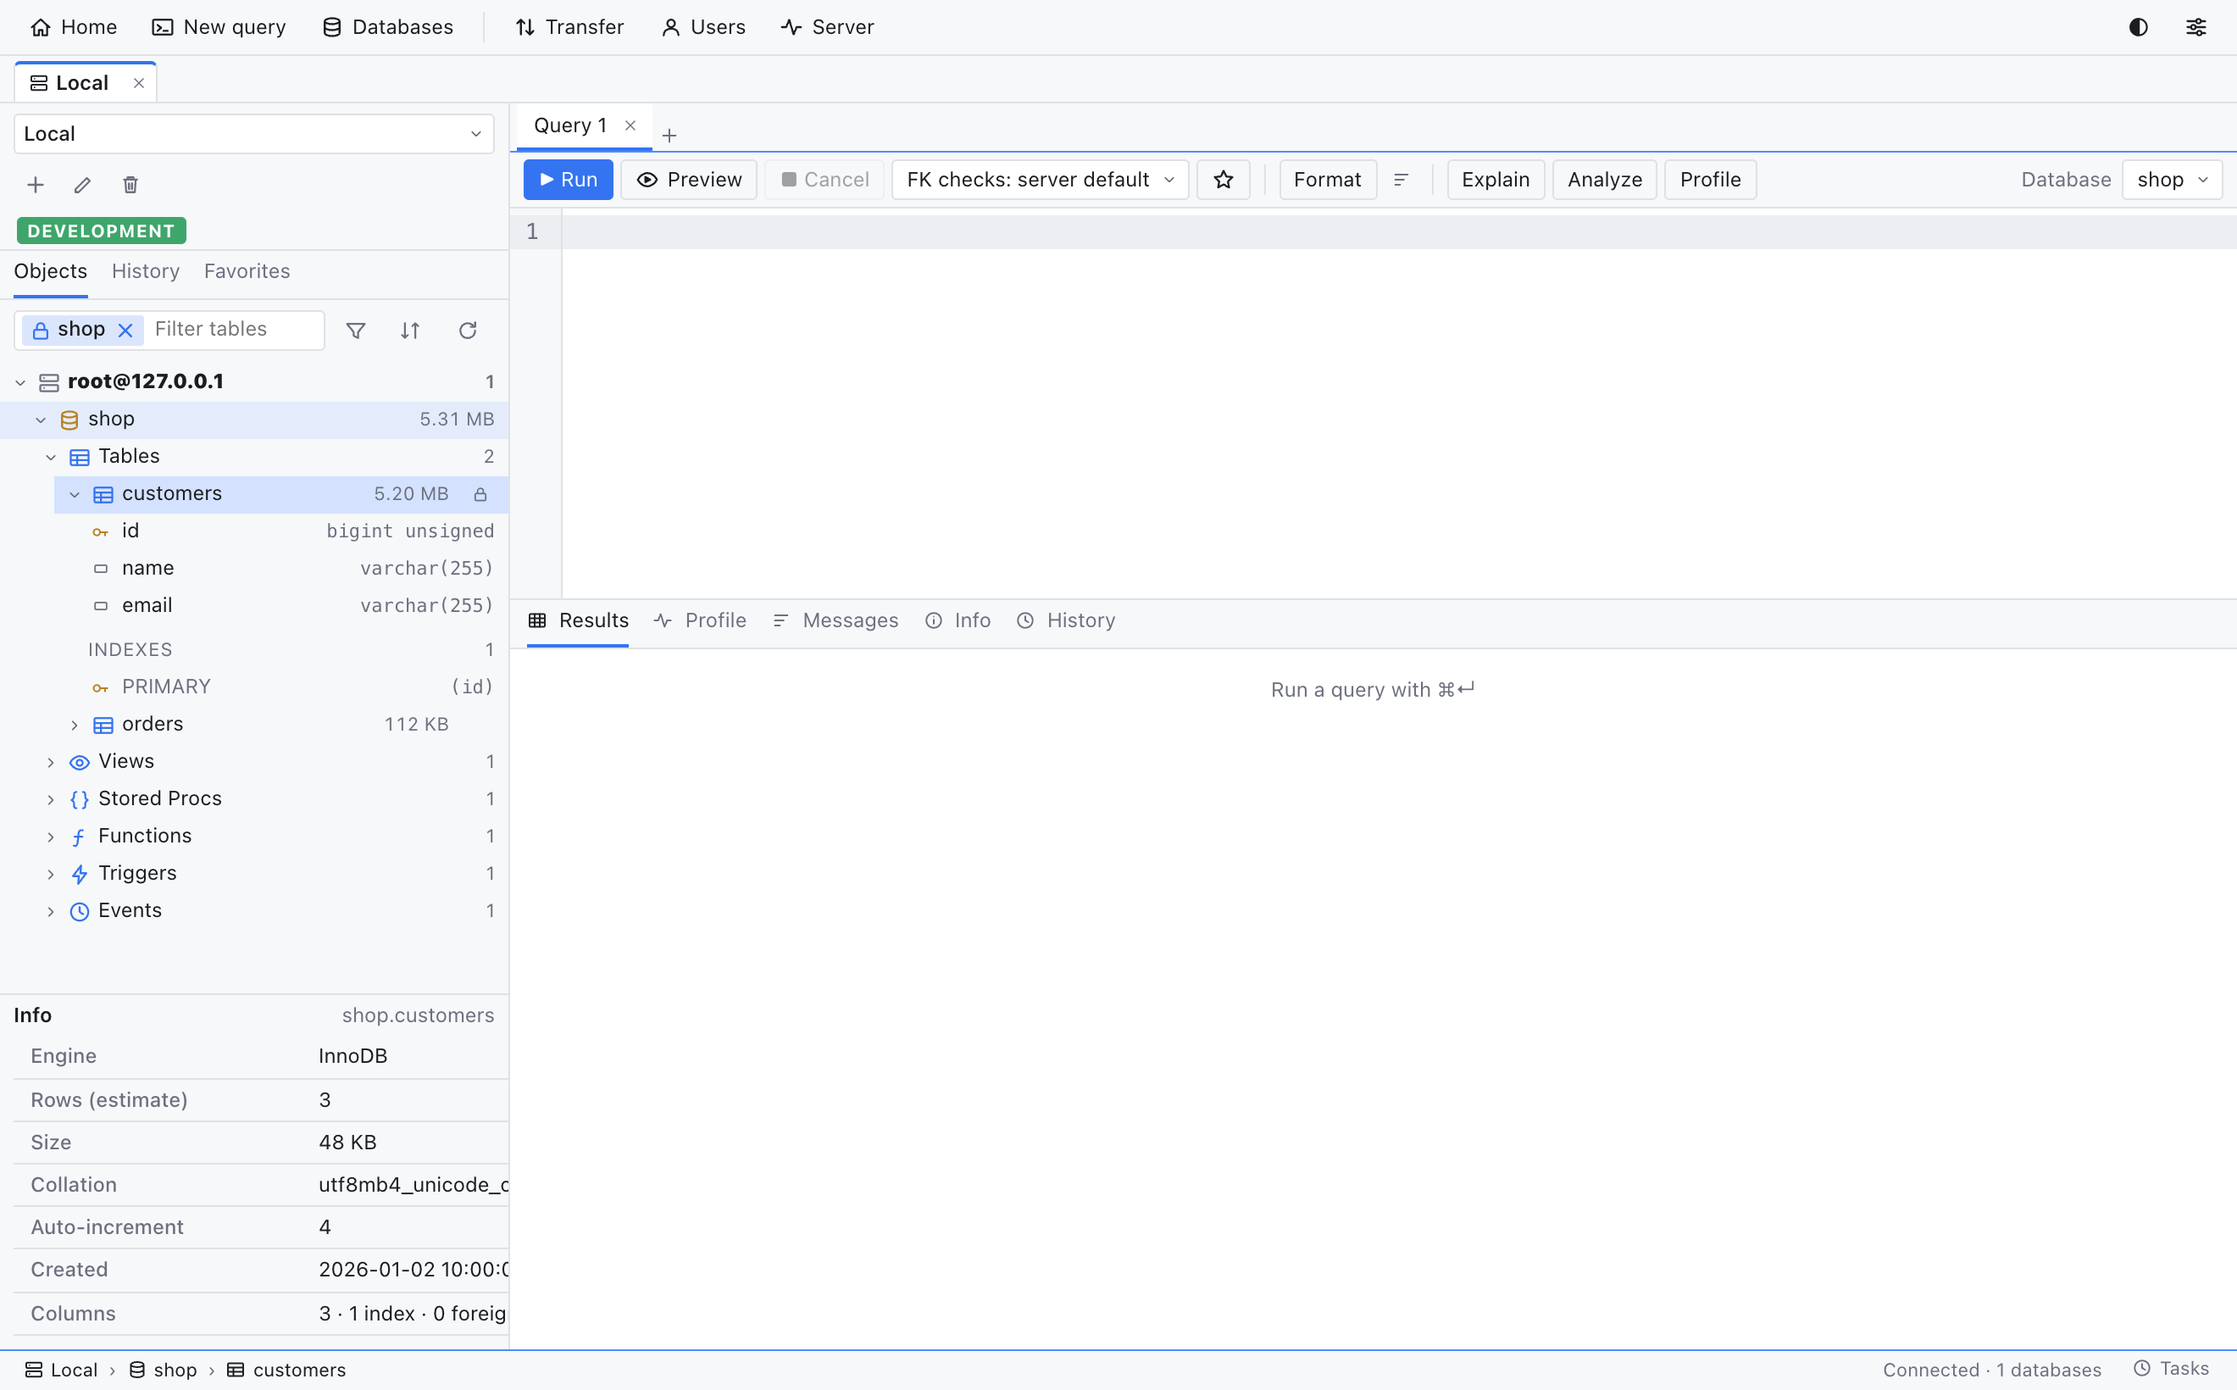
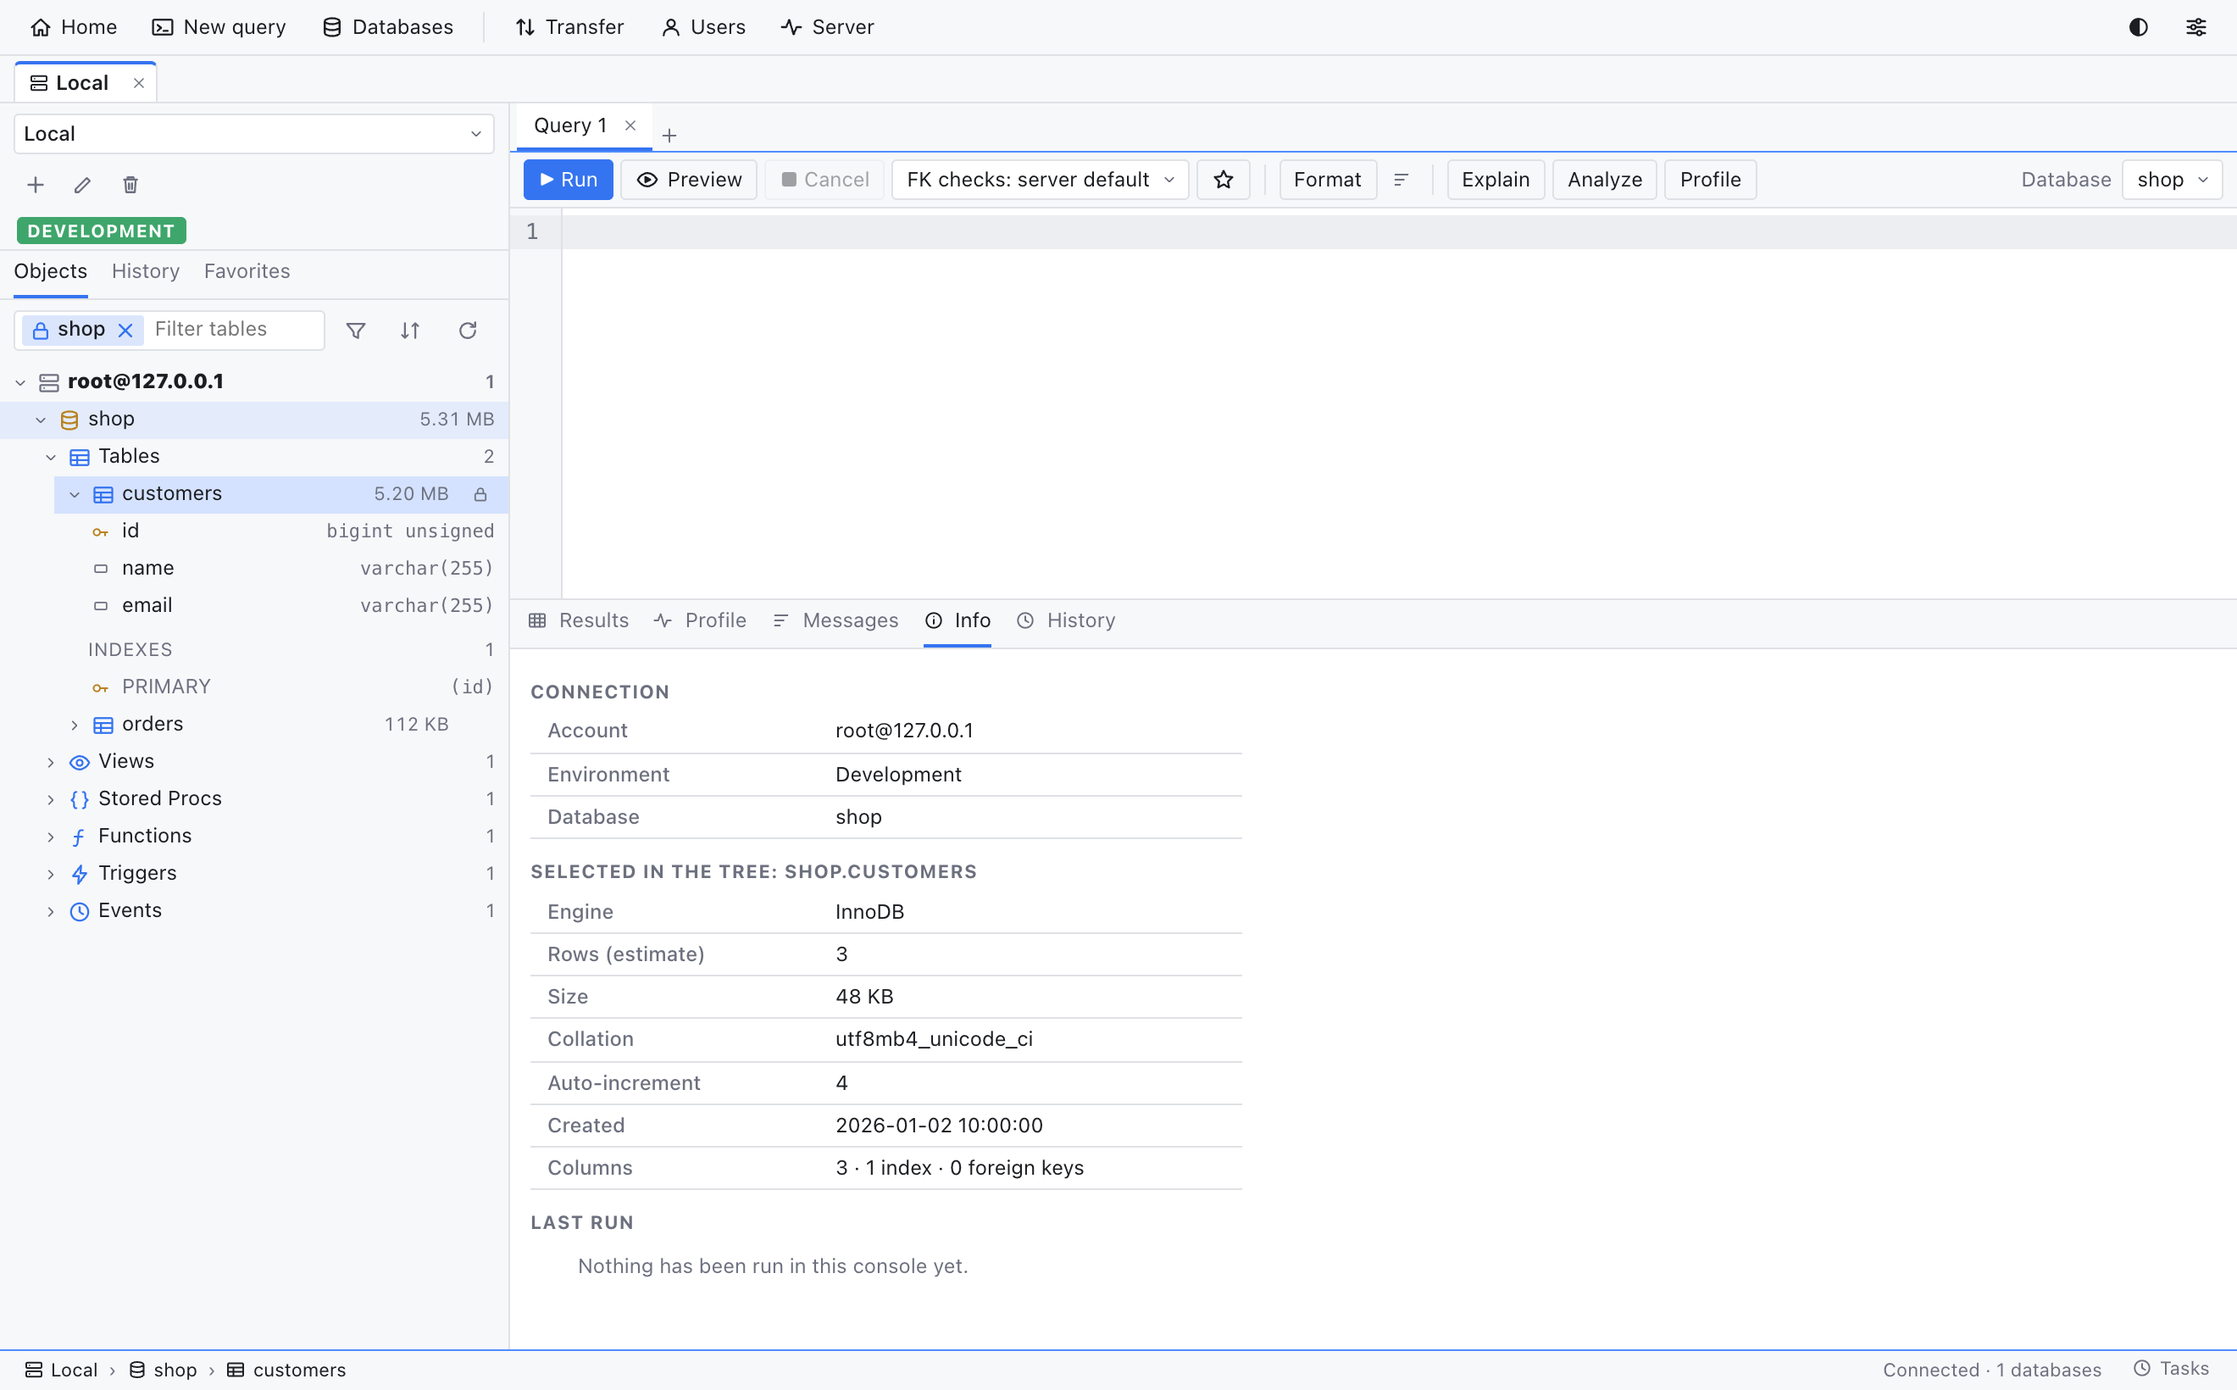
feat(browser): show selected-object facts in the Info tab instead of a sidebar panel

diff --git a/apps/desktop/src/App.tsx b/apps/desktop/src/App.tsx
@@ -6,7 +6,6 @@ import AnalysisPane, { type Analysis } from "./AnalysisPane";
 import ConnectionDialog from "./ConnectionDialog";
 import ContextMenu, { type MenuItem } from "./ContextMenu";
 import DataGrid, { defaultView, type GridView } from "./DataGrid";
-import ObjectInfo from "./ObjectInfo";
 import AboutDialog from "./AboutDialog";
 import Manual from "./Manual";
 import Tour, { tourSeen } from "./Tour";
@@ -991,7 +990,6 @@ export default function App() {
                 : <ObjectTree key={activeId} sortBy={treeSort} index={index} matches={matches} scope={matchScope} terms={terms} selectedDb={selectedDb} onSelectDb={selectDb} selectedTable={selectedTable} onSelectTable={selectTable} lockedTable={lockedTable} onLockTable={lockTable} onUnlockTable={unlock} onPick={pickName} rootLabel={active ? `${active.user}@${active.host}` : ""} onResetRoot={resetBrowser} columnQuery={lockedTable ? query : ""} stats={meta.stats} ensureStats={meta.ensureStats} details={meta.details} ensureDetails={meta.ensureDetails}
                     columnsLoaded={columnsLoaded} ensureColumns={ensureColumns} onOpenTable={(d, t) => openTable(d, t)} onObjectMenu={objectMenu} onOpenObject={showDefinition} indexes={meta.indexes} initialOpen={browserState.open} onOpenChange={(keys) => saveBrowser({ open: keys })} onDatabaseMenu={databaseMenu} />}
             </div>
-            {activeId !== null && <ObjectInfo connectionId={activeId} db={selectedDb} table={selectedTable} index={index} stats={meta.stats} />}
           </>
         )}
         {side === "history" && activeId !== null && (
@@ -1094,7 +1092,7 @@ export default function App() {
                   run={runs[editorTab.id]}
                   analysis={analyses[editorTab.id]}
                   onProfile={() => analyse("profile")}
-                  info={{ connectionId: activeId, who: active ? `${active.user}@${active.host}` : "", environment: env, readOnly, database: editorTab.database,
+                  info={{ connectionId: activeId, who: active ? `${active.user}@${active.host}` : "", environment: env, readOnly, database: editorTab.database, selection: { db: selectedDb, table: selectedTable, index, stats: meta.stats },
                           ...(isTable(editorTab) && editorTab.table?.name ? { table: { db: editorTab.table.db, name: editorTab.table.name }, onOpenProperties: () => patchTab(editorTab.id, { view: "properties" }) } : {}) }}
                   history={<HistoryPanel connectionId={activeId} refreshKey={panelKey} onInsert={insertIntoEditor} onOpen={(sql) => addTab(sql, editorTab.database)} />}
                   data={isTable(editorTab) && editorTab.id === tab.id && (tab.view ?? "data") === "data" && editorTab.table?.name ? (

diff --git a/apps/desktop/src/ObjectInfo.tsx b/apps/desktop/src/ObjectInfo.tsx
@@ -1,23 +1,15 @@
-import { useState } from "react";
 import { formatBytes } from "./browserMeta";
 import type { Node, TableStat } from "./api";
 import { useTableOverview } from "./tableOverview";
 
 const KINDS: [Node["kind"], string][] = [["table", "Tables"], ["view", "Views"], ["procedure", "Procedures"], ["function", "Functions"], ["trigger", "Triggers"], ["event", "Events"]];
 
-/** The Info panel under the object tree: facts about the selected table, or about the selected database. */
+/** Facts about what is selected in the object tree: shown in the Info tab of the results pane (not in the sidebar, which is for the tree). */
 export default function ObjectInfo(props: { connectionId: number; db: string | null; table: string | null; index: Node[]; stats: Record<string, Record<string, TableStat>> }) {
-  const [open, setOpen] = useState(() => localStorage.getItem("mylodb.infoPanel") !== "closed");
-  const toggle = () => setOpen((o) => { localStorage.setItem("mylodb.infoPanel", o ? "closed" : "open"); return !o; });
-  const title = props.table ? `${props.db}.${props.table}` : props.db ?? "Nothing selected";
-  return (
-    <div className="object-info" aria-label="Info">
-      <button className="object-info-head" aria-expanded={open} onClick={toggle}><span>Info</span><span className="dim small clip">{title}</span></button>
-      {open && (props.db === null ? <div className="empty small">Select a database or table.</div>
-        : props.table ? <TableFacts connectionId={props.connectionId} db={props.db} table={props.table} />
-        : <DatabaseFacts db={props.db} index={props.index} stats={props.stats[props.db]} />)}
-    </div>
-  );
+  if (props.db === null) return <div className="empty small">Select a database or table in the tree.</div>;
+  return props.table
+    ? <TableFacts connectionId={props.connectionId} db={props.db} table={props.table} />
+    : <DatabaseFacts db={props.db} index={props.index} stats={props.stats[props.db]} />;
 }
 
 function DatabaseFacts({ db, index, stats }: { db: string; index: Node[]; stats?: Record<string, TableStat> }) {

diff --git a/apps/desktop/src/InfoPane.tsx b/apps/desktop/src/InfoPane.tsx
@@ -1,5 +1,6 @@
 import { formatBytes } from "./browserMeta";
-import type { StatementResult } from "./api";
+import ObjectInfo from "./ObjectInfo";
+import type { Node, StatementResult, TableStat } from "./api";
 import type { RunState } from "./ResultsPane";
 import { useTableOverview } from "./tableOverview";
 
@@ -13,6 +14,8 @@ export interface InfoContext {
   /** For a table tab: the table, so its summary can be shown. */
   table?: { db: string; name: string };
   onOpenProperties?(): void;
+  /** What is selected in the object tree. */
+  selection?: { db: string | null; table: string | null; index: Node[]; stats: Record<string, Record<string, TableStat>> };
 }
 
 const oneLine = (sql: string) => sql.replace(/\s+/g, " ").trim();
@@ -29,6 +32,12 @@ export default function InfoPane({ run, ctx }: { run: RunState | undefined; ctx:
           <tr><th>Database</th><td>{ctx.database ?? <span className="dim">(none selected)</span>}</td></tr>
         </tbody>
       </table>
+      {ctx.selection && (
+        <>
+          <h4>Selected in the tree{ctx.selection.db ? `: ${ctx.selection.table ? `${ctx.selection.db}.${ctx.selection.table}` : ctx.selection.db}` : ""}</h4>
+          <ObjectInfo connectionId={ctx.connectionId} {...ctx.selection} />
+        </>
+      )}
       {ctx.table && <TableSummary connectionId={ctx.connectionId} db={ctx.table.db} table={ctx.table.name} onOpenProperties={ctx.onOpenProperties} />}
       <h4>Last run</h4>
       {!run || (!run.results && !run.error) ? <div className="empty small">Nothing has been run in this console yet.</div> : (

diff --git a/apps/desktop/src/styles.css b/apps/desktop/src/styles.css
@@ -501,13 +501,6 @@ table.kv th { text-align: left; font-weight: 500; color: var(--dim); width: 170p
 .tasks-head { display: flex; align-items: center; gap: 6px; margin-bottom: 4px; } .tasks-pop ul { list-style: none; margin: 0; padding: 0; } .task { padding: 5px 0; border-top: 1px solid var(--line); } .task-line { display: flex; align-items: center; gap: 6px; } .task-label { overflow: hidden; text-overflow: ellipsis; white-space: nowrap; max-width: 220px; }
 .task.failed .task-label { color: var(--bad-text); }
 
-/* Info panel under the object tree */
-.object-info { flex: none; max-height: 40%; overflow: auto; border-top: 1px solid var(--line); background: var(--panel); }
-.object-info-head { display: flex; width: 100%; gap: 8px; justify-content: space-between; align-items: center; background: transparent; border: 0; border-radius: 0; padding: 4px 8px; text-align: left; font-weight: 600; }
-.object-info-head .clip { overflow: hidden; text-overflow: ellipsis; white-space: nowrap; font-weight: 400; }
-.object-info .info.kv { margin: 0 8px 8px; width: calc(100% - 16px); }
-.object-info .empty, .object-info .error { padding: 2px 8px 8px; }
-
 /* About, manual and the first-run tour */
 .dialog.about { width: 460px; }
 .about-head { display: flex; gap: 14px; align-items: center; margin-bottom: 8px; }

diff --git a/apps/desktop/src/Manual.tsx b/apps/desktop/src/Manual.tsx
@@ -24,7 +24,7 @@ const SECTIONS: Section[] = [
         <li><b>Filter box</b> (<K>⇧⌘B</K>): type part of a name. Use <code>/regex/</code>, <code>type:view</code>, <code>db:shop</code> or <code>col:email</code>.</li>
         <li><b>Double-click</b> a table to open it. Right-click for the menu: data, properties, SELECT/INSERT/UPDATE/DELETE samples, rename, duplicate, drop.</li>
         <li><b>Drag</b> a database, table or column name into the editor to insert it, quoted.</li>
-        <li>The <b>Info</b> panel under the tree shows facts about what is selected.</li>
+        <li>The <b>Info</b> tab under the editor shows facts about what is selected in the tree.</li>
         <li><K>F5</K> refreshes the tree.</li>
       </ul>
     </>) },

diff --git a/docs/ROADMAP.md b/docs/ROADMAP.md
@@ -28,7 +28,7 @@ Priority words used below:
 | 12b | **Shell redesign (DBeaver style)**: top toolbar (Home, New query, Databases, Transfer, Users, Server, theme, preferences), breadcrumb footer (connection › database › table, clickable), **Preview** button beside Run, distinct icons; DBeaver-style native menus (File with Open / Save SQL file, Import, Export; Edit with Format; Search; SQL Editor; Database with Disconnect); Preferences as a filterable page tree | ✅ |
 | 12 (all) | **Phase 12 complete**: editor colour schemes (Default, Multi-colour, Solarized, High contrast, previewed live) and a **command palette** (⌘K: every action and table). Plus the **native menu bar** (MyLoDB, File, Edit, View, Database, Tools, Window, Help) and **Preferences** (⌘,): theme, font family / size / bold per area (interface, sidebar, data grid, editor), editor line height, live preview, saved and clamped | ✅ |
 | 11 (all) | **Phase 11 complete**: Operations (rename by copy, copy, collation), Data dictionary (print), Engines / Charsets / Replication page (`SHOW REPLICA STATUS` with `SLAVE` fallback) | ✅ |
-| 13 (all but leftovers) | **Workspace parity complete**: several connections open at once, text results and Copy as, SQL snippets and a personal snippet library, open / save `.sql`, connection groups (folders in the picker), **drag a database, table or column name from the tree into the editor**, **Alter database** (charset / collation, previewed), **rename stored procedures and functions** (create under the new name, drop the old, previewed), **Info panel** under the tree for the selected database or table | ✅ |
+| 13 (all but leftovers) | **Workspace parity complete**: several connections open at once, text results and Copy as, SQL snippets and a personal snippet library, open / save `.sql`, connection groups (folders in the picker), **drag a database, table or column name from the tree into the editor**, **Alter database** (charset / collation, previewed), **rename stored procedures and functions** (create under the new name, drop the old, previewed), **Info tab** facts for the object selected in the tree | ✅ |
 | extra | Light / dark / system theme; flat IDE look with one icon set; searchable dropdowns (select2 style); DBeaver-style context menus; lock to a database or table in the browser; table Properties / Data / Diagram views; console above data on table tabs; result tabs (Results, Profile, Messages, Table Data, Info, History); connect by host or URL; "Show all databases"; resizable sidebar and console | ✅ |
 
 Tests: about 170 Rust tests (many against a real MySQL 9.7) and 21 UI suites. Unsigned arm64 `.dmg` builds and installs.

diff --git a/docs/MANUAL.md b/docs/MANUAL.md
@@ -53,13 +53,13 @@ Several connections can be open at once; each is a tab above the workspace. Clos
 
 ## 3. Browse objects
 
-![The object tree with the Info panel](images/browser-info.png)
+![The Info tab shows facts about the object selected in the tree](images/browser-info.png)
 
 * The tree shows databases, tables, views, procedures, functions, triggers and events, with sizes. **Click** a database to lock the filter to it; click a table to see its columns and indexes.
 * **Filter** (⇧⌘B): type part of a name. Operators: `/regex/`, `type:view`, `db:shop`, `col:email`. The filter icon switches which object kinds are searched.
 * **Double-click** a table to open it. **Right-click** for data, properties, SELECT/INSERT/UPDATE/DELETE samples, rename, duplicate, drop. On a database: Structure, Databases, Create, **Alter database…**, Drop. On a procedure or function: show or edit the definition, **Rename…**, drop.
 * **Drag** a database, table or column into the editor to insert its quoted name.
-* The **Info** panel under the tree shows facts about the selected table (engine, rows, size, collation, auto-increment, created, columns, indexes, foreign keys) or database (object counts, size, rows). Click its header to collapse it.
+* The **Info** tab under the editor shows facts about what is selected in the tree: for a table the engine, rows, size, collation, auto-increment, created, columns, indexes and foreign keys; for a database the object counts, size and rows. (It sits there, not in the sidebar, so the tree keeps its space.)
 * The sort button orders tables by name or by size. **F5** refreshes.
 
 ## 4. Run SQL

diff --git a/README.md b/README.md
@@ -23,7 +23,7 @@
 </p>
 
 <p align="center">
-  <img src="docs/images/query.png" alt="MyLoDB: object tree with an Info panel, a SQL editor and its results" width="900">
+  <img src="docs/images/query.png" alt="MyLoDB: object tree, a SQL editor and its results" width="900">
 </p>
 
 > [!IMPORTANT]
@@ -38,7 +38,7 @@ MyLoDB is for people who miss SQLyog on the Mac. It connects to MySQL and MariaD
 
 | | |
 |---|---|
-| **Object browser** | Databases, tables, views, routines, triggers and events with sizes. Filter with `ord*`, `/regex/`, `type:view`, `db:shop`, `col:email`. An Info panel for the selected object. Drag a name into the editor. |
+| **Object browser** | Databases, tables, views, routines, triggers and events with sizes. Filter with `ord*`, `/regex/`, `type:view`, `db:shop`, `col:email`. The Info tab shows facts about the selected object. Drag a name into the editor. |
 | **SQL editor** | MySQL-aware autocomplete (tables, columns, aliases), formatter, run selection (⌘↵), cancel, multi-result tabs, Explain and profiler, history, favorites, your own snippets, `.sql` files. |
 | **Data grid** | Server-side paging, filter row, multi-column sort, staged inline edits in one transaction, foreign-key picker, BLOB viewer, copy as TSV / CSV / JSON / Markdown / INSERT. |
 | **Table designer** | Columns, indexes, foreign keys, options, with the exact `ALTER TABLE` previewed. Renames keep data. |

diff --git a/CHANGELOG.md b/CHANGELOG.md
@@ -6,7 +6,7 @@ First public release. macOS, Apple Silicon, unsigned.
 
 **Added**
 * Connection manager with Keychain passwords, SSH tunnels, SSL modes, connect by URL, connection groups, several connections open at once.
-* Object browser with a fast filter, sizes, an Info panel, drag a name into the editor, alter database, rename procedures and functions.
+* Object browser with a fast filter, sizes, facts about the selected object in the Info tab, drag a name into the editor, alter database, rename procedures and functions.
 * SQL editor with autocomplete, formatter, Explain and profiler, history, favorites, personal snippets, `.sql` files, text results and Copy as.
 * Editable data grid with staged edits, filter row, foreign-key picker, BLOB viewer and exports; keyset paging and a windowed grid for very large tables.
 * Table designer with a live `ALTER TABLE` preview, users and privileges, server tools, backup, restore and CSV import.
